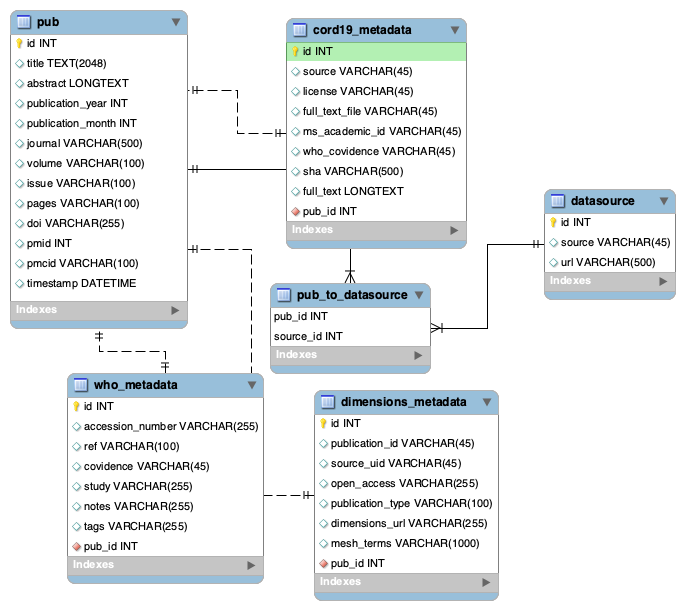
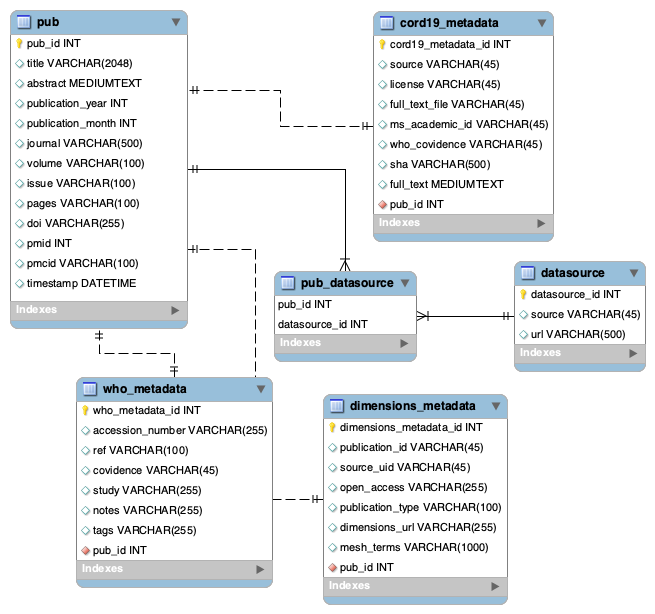
added correct SQL schema picture and updated README to explain identifiers and tables

diff --git a/README.md b/README.md
@@ -20,7 +20,7 @@ For the moment, we consider publications from the following sources:
 * [Dimensions](https://docs.google.com/spreadsheets/d/1-kTZJZ1GAhJ2m4GAIhw1ZdlgO46JpvX0ZQa232VWRmw/edit#gid=2034285255) (last updated March 28, 2020): 
 * [WHO](https://www.who.int/emergencies/diseases/novel-coronavirus-2019/global-research-on-novel-coronavirus-2019-ncov) (last updated March 28, 2020)
 
-You will need to download these datasets and add them to a local folder in order to process them. We assume that you will have a local copy of the whole CORD19 dataset, and a `csv` file with publication metadata for Dimensions and WHO. Please see the notebooks below for more details.
+You will need to download these datasets and add them to a local folder in order to process them. We assume that you will have a local copy of the whole CORD19 dataset, and a `csv` file with publication metadata for Dimensions and WHO. Previous releases of the Dimensions and WHO lists can be found in the [datasets_input](datasets_input) folder. Please also see the notebooks below for more details. 
 
 *In the future, we might expand to more sources.*
 
@@ -33,6 +33,14 @@ The relational schema we use to consolidate the data sources mentioned above is 
 ![SQL schema](datasets_input/SQL_database_schema/projectdb_covid_schema.png)
 
 You can use the [Notebook_1_SQL_database](Notebook_1_SQL_database.ipynb) notebook to populate this database. This notebook allows you to insert data into a MySQL instance of your choice, where an empty database is assumed to exist with the above-mentioned schema. Alternatively, it allows you to export the relational data to Pandas tables.
+
+#### An explanation on tables and identifiers
+
+* The `pub` table contains publications from all data sources. If you would like to work with publications coming exclusively from one data source, join it with the `datasource` table via the `pub_datasource` table. 
+* The primary keys of all tables (`pub_id`, `covid19_mtadata_id`, `who_metadata_id`, `dimensions_metadata_id`, `datasource_id`) are not stable and are only internally consistent: if you create different versions of the database, they will likely differ.
+* In order to work with Dimensions and Altmetrics data, *publication identifiers* should be used. Please give preference to DOIs, then to PMIDs, then to PMCIDs (listed in order of coverage). 
+* We removed a few (<1000) publications which had no known identifier among these three options. These are usually pre-prints, which are likely to be equipped with an identifier in future releases.
+* The `metadata` tables contain fields which are specific to a datasource, and we considered potentially useful. They are only available for publications coming from that datasource.
 
 ### Query Dimensions and Altmetrics
 
